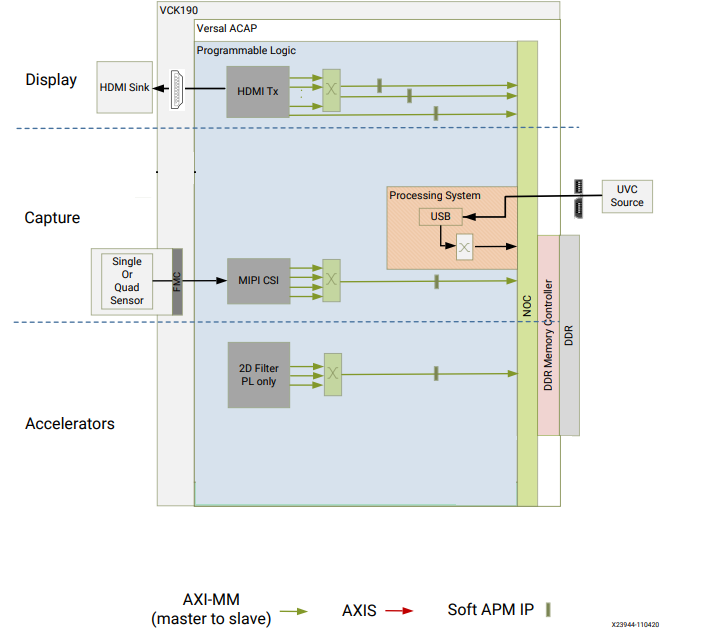
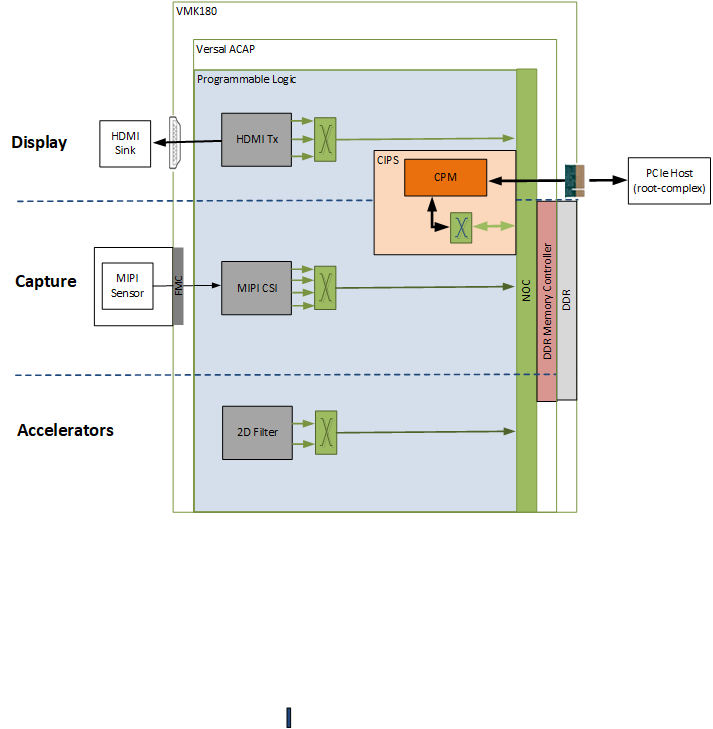
update intro

diff --git a/docs/source/docs/platform1/docs/introduction.md b/docs/source/docs/platform1/docs/introduction.md
@@ -1,6 +1,6 @@
 <table class="sphinxhide">
  <tr>
-   <td align="center"><img src="../../../../_images/xilinx-logo.png" width="30%"/><h1> Versal Prime -VMK180 Evaluation Kit Multimedia TRD Tutorial</h1>
+   <td align="center"><img src="../../../../_images/xilinx-logo.png" width="30%"/><h1> VMK180 TRD Tutorial</h1>
    </td>
  </tr>
  <tr>
@@ -16,13 +16,9 @@ Design Overview
 Introduction
 ------------
 
-The VMK180 TRD application design is built on VMK180 Evaluation Kit and provides a framework for building and customizing video platforms . The design has a platform and integrated accelerator functions.Programmable logic (PL) is used for the accelerator development. The platform supports capture from MIPI single sensor device. The output can be displayed on HDMI monitor or jupyter notebook interface.
+The VMK180 TRD application design is built on VMK180 Evaluation Kit and provides a framework for building and customizing video platforms . The design has a platform and integrated accelerator functions.Programmable logic (PL) is used for the accelerator development. The platform supports capture from MIPI single sensor device and PCIe video Input. The output can be displayed on HDMI monitor or sent to a host machine over PCIe.
 
-The following example Processing functions can be run on this platform
-
-* A user programmable 2D filter in PL
-* VP9 decode and demux in application processing unit (APU)
-
+A user programmable 2D filter in PL example Processing functions can be run on this platform
 
 The following figure shows the various pipelines supported by the design.
 
@@ -37,10 +33,10 @@ The APU application controls the video data paths implemented in the PL:
 
 * Processing/Accelerator/Memory-to-memory (M2M) pipeline implementing 2D Filter. Captured video frames are read from DDR memory, processed by the filter, and then written back to memory.
 
-* An Display/Output pipeline reads video frames from memory and sends the frames to a sink. In this case the sink is a HDMI display/Jupyter notebook Application with display interface or to the host via QDMA's card to host (C2H) channel.
+* An Display/Output pipeline reads video frames from DDR memory and sends the frames to a sink. In this case the sink is a HDMI display or to the host via QDMA's card to host (C2H) channel.
   
 
-The following figure shows an example end-to-end pipeline which could be a single image sensor as the video source, filter 2D for processing. The processed frames are either  displayed via HDMI port or jupyter notebook . The video format in the figure is the output format on each block. Details are described in the [Hardware Architecture document](hw_arch_platform.md).
+The following figure shows an example end-to-end pipeline which could be a single image sensor as the video source, filter 2D for processing. The processed frames are either  displayed via HDMI port or via monitor on PCIe Host. The video format in the figure is the output format on each block. Details are described in the [Hardware Architecture document](hw_arch_platform.md).
 
 ![End to end example pipelines](../../media/end_to_end_pp.PNG)
 
@@ -52,6 +48,7 @@ Design Components
 
   * VMK180 Evaluation Kit
   * [Leopard IMX274 MIPI FMC Card](https://www.leopardimaging.com/product/csi-2-mipi-modules-i-pex/li-imx274mipi-fmc)
+  * A x86 server class host machine
   
 </details>
 
@@ -59,12 +56,12 @@ Design Components
  <summary><b>Interfaces and IP</b></summary>
 
 * Video inputs
-   * MIPI CSI-2 Rx/Host x86
+   * MIPI CSI-2 Rx
+   * RAW Video file
 * Video outputs
    * HDMI
-   * Ethernet - Jupyter notebook
+   * PCIe/Display Port on Host
 * Video processing
-   * VP9 decode
    * PL based 2D filter Accelerator
 * Auxiliary Peripherals
    * SD
@@ -87,6 +84,11 @@ Design Components
    * Jupyter
    * GStreamer 
    * Xilinx run-time (XRT)
+* Host components
+  * linux User space frameworks
+  * QT
+  * OpenCV
+  * QDMA Driver
 
  </details>
 
@@ -95,9 +97,11 @@ Design Components
 
 * Resolutions
    * MIPI: 1080p60,2160p60
+   * PCIe Use-Cases: 1080p30, 2160p30
   
 * Pixel format
    * YUVY8 
+   * YUYV
  </details>
 &nbsp;
 
